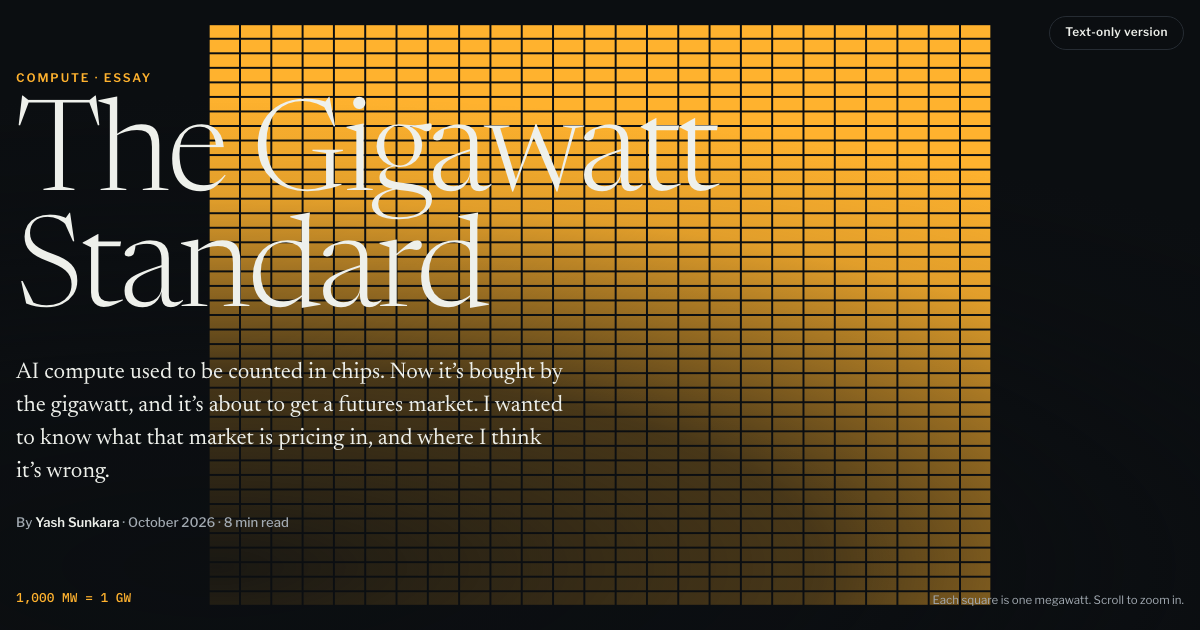
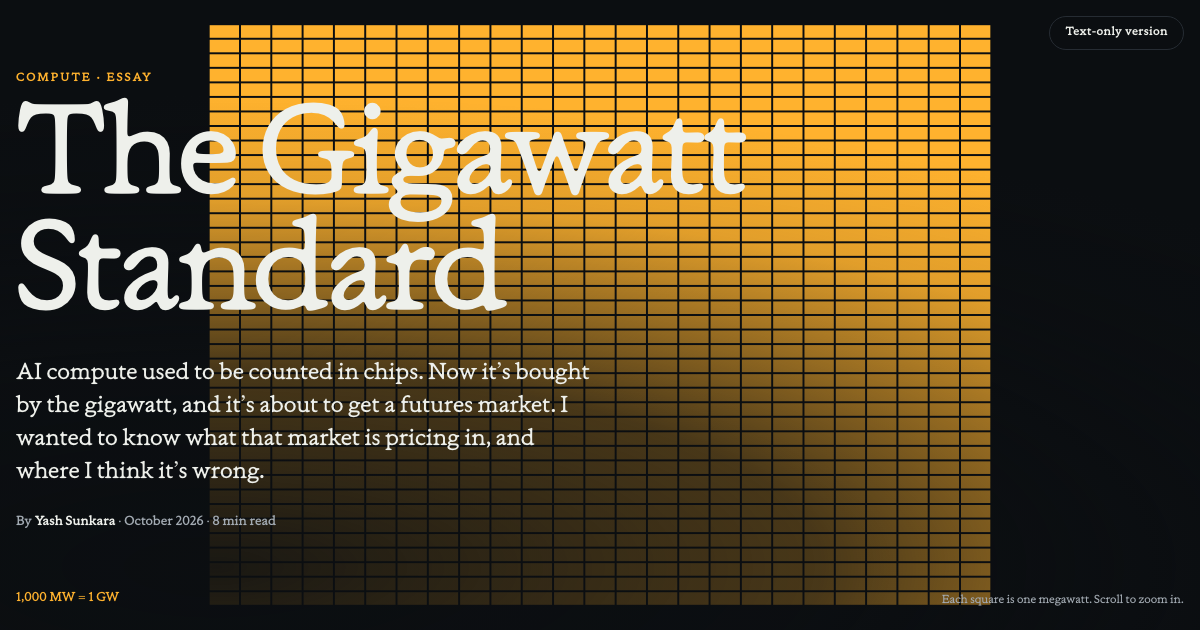
Set The Gigawatt Standard in Ramboia and tidy its comments
Load the site's Ramboia font for all article text and canvas labels instead
of Google Fonts, regenerate the OG image, replace jargon-heavy code comments,
and drop the stray "Dimmer:" prefix from the ledger legend.

diff --git a/writings/the-gigawatt-standard/index.html b/writings/the-gigawatt-standard/index.html
@@ -5,9 +5,7 @@
 <meta name="viewport" content="width=device-width, initial-scale=1, viewport-fit=cover">
 <title>The Gigawatt Standard</title>
 <meta name="description" content="AI compute used to be counted in chips. Now it's bought by the gigawatt and it's about to get a futures market. An essay by Yash Sunkara.">
-<link rel="preconnect" href="https://fonts.googleapis.com">
-<link rel="preconnect" href="https://fonts.gstatic.com" crossorigin>
-<link rel="stylesheet" href="https://fonts.googleapis.com/css2?family=Newsreader:ital,opsz,wght@0,6..72,300..700;1,6..72,300..700&family=Libre+Franklin:wght@400;500;600;700&family=IBM+Plex+Mono:wght@400;500&display=swap">
+<link rel="preload" href="/css/ramboia-font-family/RamboiaTestVF.ttf" as="font" type="font/ttf" crossorigin>
 <meta name="author" content="Yash Sunkara">
 <link rel="canonical" href="https://ysunkara.com/writings/the-gigawatt-standard">
 <meta property="og:type" content="article">
@@ -22,8 +20,8 @@
 <meta name="twitter:image" content="https://ysunkara.com/writings/the-gigawatt-standard/og.png">
 <style>html,body{margin:0}img{max-width:100%}[hidden]{display:none!important}:root{padding-top:env(safe-area-inset-top,0px);padding-bottom:env(safe-area-inset-bottom,0px)}</style>
 <style>
-/* Layout: magazine longform. Night-ground "camera" sections zoom between one GPU and every gigawatt the labs signed;
-   a narrow serif reading column carries the argument; charts pin in place and change as text cards scroll over them. */
+@font-face{font-family:"Ramboia";src:url("/css/ramboia-font-family/RamboiaTestVF.ttf") format("truetype-variations");font-weight:100 900;font-style:normal;font-display:swap}
+@font-face{font-family:"Ramboia";src:url("/css/ramboia-font-family/RamboiaTestVF-Italic.ttf") format("truetype-variations");font-weight:100 900;font-style:italic;font-display:swap}
 :root{
   --paper:#f3f4f1; --paper-2:#e8eae5; --card:#ffffff;
   --ink:#14171a; --ink-2:#454b52; --ink-3:#6c737b; --rule:#d3d7d1;
@@ -32,9 +30,9 @@
   --s1:#2a78d6; --s2:#eb6834; --s3:#1baf7a; --s4:#9aa1a9;
   --n-custom:#22b07d; --n-amd:#e0662f; --n-nvidia:#3d8ae6; --n-other:#8d949c;
   --zone-a:rgba(27,175,122,.10); --zone-b:rgba(163,95,0,.08); --zone-c:rgba(42,120,214,.10);
-  --f-serif:"Newsreader","Iowan Old Style","Palatino Linotype",Georgia,serif;
-  --f-sans:"Libre Franklin","Franklin Gothic Book","Helvetica Neue",Arial,sans-serif;
-  --f-mono:"IBM Plex Mono",ui-monospace,Menlo,Consolas,monospace;
+  --f-serif:"Ramboia",Georgia,serif;
+  --f-sans:"Ramboia",Georgia,serif;
+  --f-mono:"Ramboia",Georgia,serif;
   --measure:37.5rem;
   --cardw:min(380px,34vw);
 }
@@ -70,7 +68,7 @@ a{color:inherit}
 .progress{height:2px}
 .progress span{display:block;height:100%;width:0;background:var(--amber)}
 
-/* zoom stages (night camera) */
+/* zoom sections */
 .zsec{position:relative;background:var(--night);color:var(--night-ink)}
 .zstage{position:sticky;top:0;height:100vh;height:100svh;overflow:hidden}
 .zstage canvas{position:absolute;inset:0;width:100%;height:100%;display:block}
@@ -118,7 +116,7 @@ a{color:inherit}
 .chapter h2{font:300 clamp(2.6rem,7.5vw,5.8rem)/.98 var(--f-serif);font-variation-settings:"opsz" 72;letter-spacing:-.02em;margin:0 0 1rem;max-width:14ch;text-wrap:balance}
 .chapter .cdek{font:italic 400 clamp(1.1rem,2vw,1.35rem)/1.45 var(--f-serif);color:var(--night-ink-2);margin:0;max-width:32rem}
 
-/* chart scrollies */
+/* scrolling charts */
 .scrolly{position:relative}
 .stage{position:sticky;top:0;height:100vh;height:100svh;overflow:hidden}
 .figure{position:absolute;inset:0;padding:5.2rem 2.5rem 3.2rem calc(var(--cardw) + max(2rem,4vw) + 3rem);display:flex;flex-direction:column;margin:0}
@@ -335,7 +333,7 @@ html.plain .chapter .inner{transform:none !important;opacity:1 !important}
       <li><span class="zsw" style="background:var(--n-amd)"></span>AMD</li>
       <li><span class="zsw" style="background:var(--n-nvidia)"></span>Nvidia</li>
       <li><span class="zsw" style="background:var(--n-other)"></span>Cerebras</li>
-      <li><span class="zsw" style="background:var(--n-custom);opacity:.45"></span>Dimmer: potential (2028 TPUs)</li>
+      <li><span class="zsw" style="background:var(--n-custom);opacity:.45"></span>Potential (2028 TPUs)</li>
       <li><span class="zsw" style="background:var(--glow)"></span>Actually running</li>
     </ul>
   </div>
@@ -658,10 +656,10 @@ class World {
       const pad = 3; ctx.strokeRect(X(f.x) - pad, Y(f.y) - pad, f.w*s + 2*pad, f.h*s + 2*pad); }
     if (o.labels) for (const l of o.labels){ if (l.a <= 0.01) continue;
       const fs = l.size || 13;
-      ctx.globalAlpha = l.a; ctx.font = `600 ${fs}px "Libre Franklin", "Helvetica Neue", Arial, sans-serif`; ctx.textBaseline = 'top';
+      ctx.globalAlpha = l.a; ctx.font = `600 ${fs}px "Ramboia", Georgia, serif`; ctx.textBaseline = 'top';
       ctx.lineWidth = 4; ctx.lineJoin = 'round'; ctx.strokeStyle = 'rgba(11,14,17,.85)'; ctx.fillStyle = '#eef0eb';
       const x = X(l.x) + 8, y = Y(l.y) + 8; ctx.strokeText(l.text, x, y); ctx.fillText(l.text, x, y);
-      if (l.sub){ ctx.font = `500 ${fs - 2}px "Libre Franklin", "Helvetica Neue", Arial, sans-serif`; ctx.strokeText(l.sub, x, y + fs + 4); ctx.fillStyle = '#c9ced3'; ctx.fillText(l.sub, x, y + fs + 4); }
+      if (l.sub){ ctx.font = `500 ${fs - 2}px "Ramboia", Georgia, serif`; ctx.strokeText(l.sub, x, y + fs + 4); ctx.fillStyle = '#c9ced3'; ctx.fillText(l.sub, x, y + fs + 4); }
       ctx.globalAlpha = 1; }
   }
 }
@@ -690,8 +688,8 @@ const COL = () => ({ bg: cssv('--night') || '#0b0e11', glow: hex2rgb(cssv('--glo
     const ctx = world.ctx, s = cam.s, ax = world.W/2, ay = world.H/2, f = focusRects(block).gpu, g = 0.11, w = (1 - 2*g)*s;
     const px = (f.x + g - cam.cx)*s + ax, py = (f.y + g - cam.cy)*s + ay, nar = world.W < 640;
     ctx.save(); ctx.globalAlpha = a; ctx.lineWidth = 1.3; ctx.strokeStyle = '#eef0eb'; ctx.lineJoin = 'round'; ctx.textBaseline = 'middle';
-    const txt = (t, sub, x, y, align) => { ctx.textAlign = align; ctx.font = '600 16px "Libre Franklin", Arial, sans-serif'; ctx.lineWidth = 5; ctx.strokeStyle = 'rgba(11,14,17,.9)'; ctx.strokeText(t, x, y); ctx.fillStyle = '#eef0eb'; ctx.fillText(t, x, y);
-      ctx.font = '500 13px "Libre Franklin", Arial, sans-serif'; ctx.strokeText(sub, x, y + 19); ctx.fillStyle = '#d9dde1'; ctx.fillText(sub, x, y + 19); };
+    const txt = (t, sub, x, y, align) => { ctx.textAlign = align; ctx.font = '600 16px "Ramboia", Georgia, serif'; ctx.lineWidth = 5; ctx.strokeStyle = 'rgba(11,14,17,.9)'; ctx.strokeText(t, x, y); ctx.fillStyle = '#eef0eb'; ctx.fillText(t, x, y);
+      ctx.font = '500 13px "Ramboia", Georgia, serif'; ctx.strokeText(sub, x, y + 19); ctx.fillStyle = '#d9dde1'; ctx.fillText(sub, x, y + 19); };
     const lead = (x1, y1, x2, y2) => { ctx.lineWidth = 1.3; ctx.strokeStyle = 'rgba(238,240,235,.85)'; ctx.beginPath(); ctx.moveTo(x1, y1); ctx.lineTo(x2, y2); ctx.stroke(); ctx.beginPath(); ctx.arc(x1, y1, 3, 0, Math.PI*2); ctx.fillStyle = '#eef0eb'; ctx.fill(); };
     if (!nar){
       lead(px + w*0.6, py + w*0.36, px + w + 20, py + w*0.16); txt('GPU die', 'Does the math', px + w + 28, py + w*0.16, 'left');
@@ -794,7 +792,7 @@ const COL = () => ({ bg: cssv('--night') || '#0b0e11', glow: hex2rgb(cssv('--glo
   document.querySelectorAll('[data-part]').forEach(el => io.observe(el));
 })();
 
-/* ---------------- scroll engine for chart scrollies ---------------- */
+/* ---------------- scroll handling for the charts ---------------- */
 function scrolly(section, onStep){
   const steps = [...section.querySelectorAll('.step')]; let current = 0;
   const io = new IntersectionObserver(entries => { entries.forEach(e => { if (!e.isIntersecting) return; const i = +e.target.dataset.i; if (i !== current){ current = i; onStep(i); } }); }, { rootMargin: '-50% 0px -50% 0px', threshold: 0 });
@@ -1034,7 +1032,7 @@ function scrolly(section, onStep){
           ctx.fillRect(sx + i*c2 + g2, sy + j*c2 + g2, c2 - 2*g2, c2 - 2*g2); } }
       if (u > 0.02 && u < 0.98){ ctx.globalAlpha = A*0.8; ctx.fillStyle = '#ffffff'; ctx.fillRect(sx + p*sw - 1, sy - 6, 2, sw + 12); }
       if (v > 0.35){ const h = Math.ceil(0.24*n2)*c2; ctx.globalAlpha = A*clamp((v - 0.35)/0.3, 0, 1);
-        ctx.font = `600 ${sw > 420 ? 15 : 12}px "Libre Franklin", Arial, sans-serif`; ctx.textBaseline = 'middle'; ctx.textAlign = 'center';
+        ctx.font = `600 ${sw > 420 ? 15 : 12}px "Ramboia", Georgia, serif`; ctx.textBaseline = 'middle'; ctx.textAlign = 'center';
         ctx.lineWidth = 5; ctx.strokeStyle = 'rgba(11,14,17,.9)'; ctx.strokeText('Paying for the hardware', sx + sw/2, sy + h/2); ctx.fillStyle = '#eef0eb'; ctx.fillText('Paying for the hardware', sx + sw/2, sy + h/2); ctx.textAlign = 'left'; }
     }
     ctx.globalAlpha = 1;
@@ -1054,7 +1052,7 @@ function scrolly(section, onStep){
     }
     const fx = X(FC*(S+GAP)), fy = Y(FR*(S+GAP)), fw = S*s;
     ctx.globalAlpha = clamp(z*3, 0, 1); ctx.strokeStyle = 'rgba(255,255,255,.9)'; ctx.lineWidth = 1.5; ctx.strokeRect(fx - 4, fy - 4, fw + 8, fw + 8);
-    if (z > 0.6){ ctx.globalAlpha = clamp((z - 0.6)/0.3, 0, 1); ctx.font = '600 13px "Libre Franklin", Arial, sans-serif'; ctx.textBaseline = 'bottom'; ctx.textAlign = 'left';
+    if (z > 0.6){ ctx.globalAlpha = clamp((z - 0.6)/0.3, 0, 1); ctx.font = '600 13px "Ramboia", Georgia, serif'; ctx.textBaseline = 'bottom'; ctx.textAlign = 'left';
       ctx.fillStyle = '#eef0eb'; ctx.fillText('1 megawatt', fx - 4, fy - 10); }
     ctx.globalAlpha = 1;
     panel.style.opacity = t > 0.55 ? '1' : '0';
